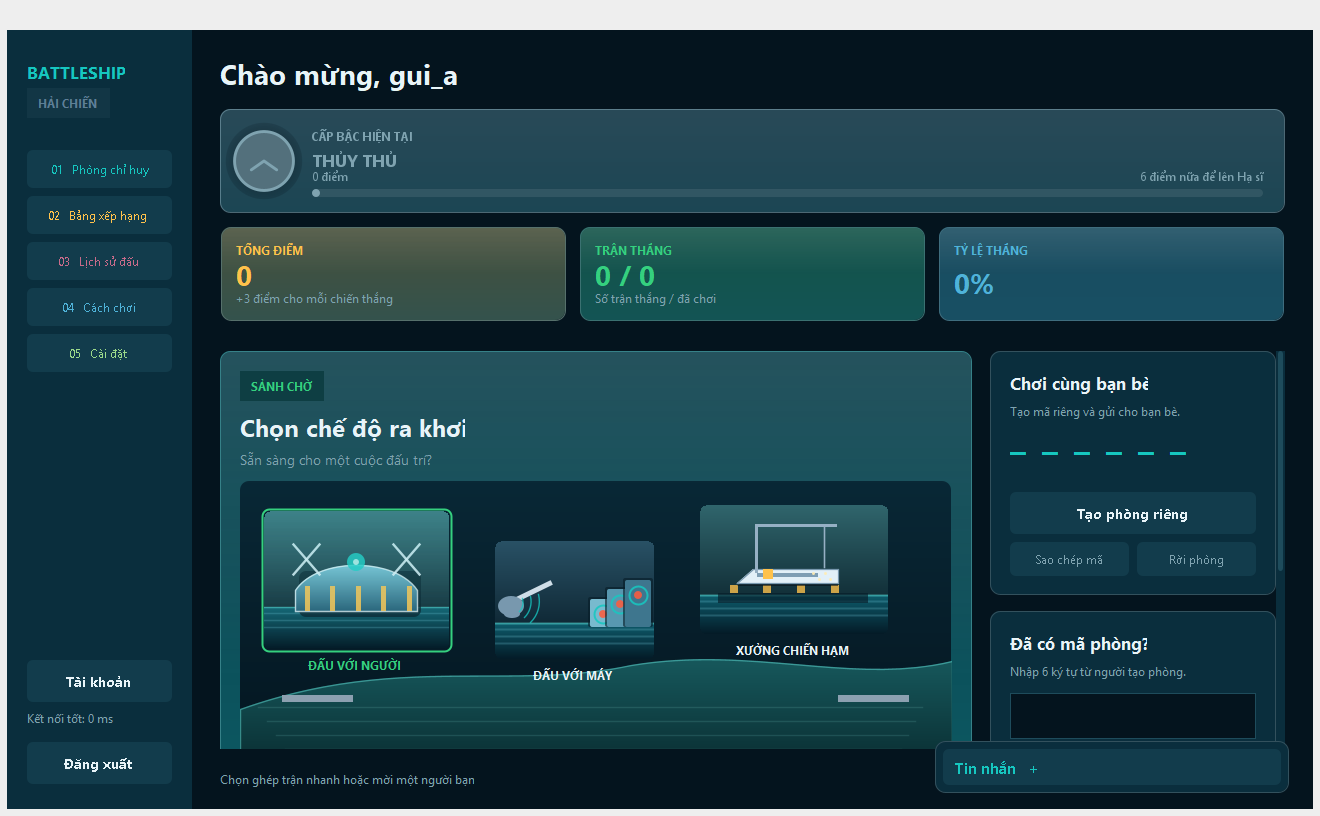
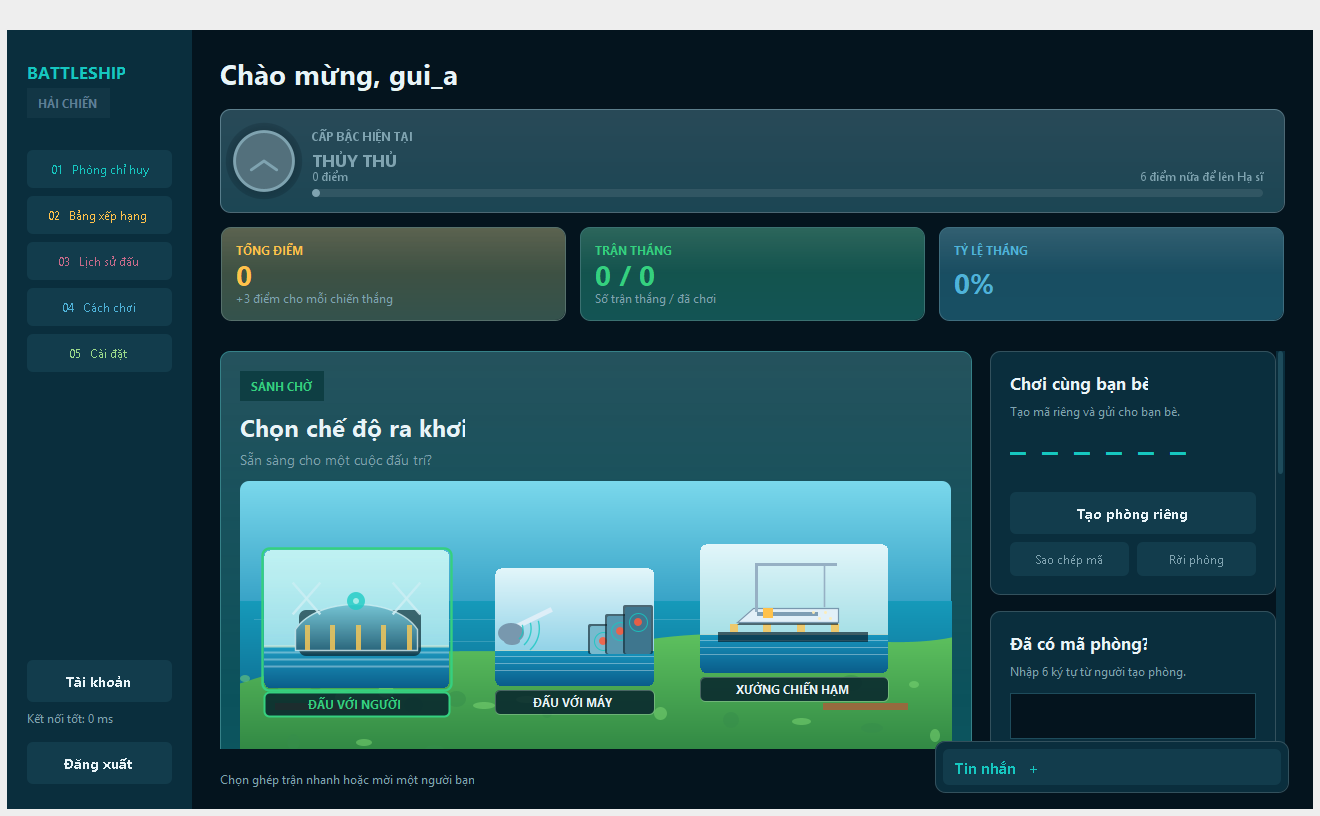
fix: the lobby no longer clips, and the hub scene goes bright and colourful
Two things in one screenshot from the field. The first was a real defect: the lobby page was pinned to
720 px while the content had grown past a thousand, and Swing clips children to the parent, so the
online roster and the whole branch panel were cut off at the bottom of a 1080-tall window. The page is
now taller than the content, the hub scene and the branch host declare minimum heights so the vertical
box layout cannot squash them, and the branch gets the room the shipyard actually needs.

The second was taste: the hub was a muted teal coast inside a dark frame, which read serious but flat.
It is now a bright little island - blue sky, blue water with white glints, a sandy rim, a green land
with foliage, wooden piers - and each building sits on it with its own light scene: a cream sandstone
dome with banners, red-and-white targets on the range, a white hull under a yellow crane in the dock.
Name plates became dark pills with a coloured frame that lights up for the open branch.

Verified: -Gui PASS (5/5), docs/ui/lobby.png re-rendered.

Changed region(s): [[0.1553, 0.5821, 0.7455, 0.9191], [0.9629, 0.5821, 0.9939, 0.674]]

diff --git a/src/client/ui/HubScene.java b/src/client/ui/HubScene.java
@@ -69,6 +69,10 @@ public class HubScene extends JPanel {
 
     public void setEntry(Entry value) { entry = value; }
 
+    @Override public Dimension getPreferredSize() { return new Dimension(320, 300); }
+    @Override public Dimension getMinimumSize() { return new Dimension(200, 300); }
+    @Override public Dimension getMaximumSize() { return new Dimension(Integer.MAX_VALUE, 300); }
+
     public void setSelected(int mode) {
         selected = mode;
         for (int i = 0; i < plates.length; i++) {
@@ -102,37 +106,58 @@ public class HubScene extends JPanel {
         }
         Graphics2D g = Theme.graphics(graphics);
         place(w, h);
-        g.setPaint(new GradientPaint(0, 0, new Color(9, 40, 54), 0, h, new Color(4, 20, 30)));
+        g.setPaint(new GradientPaint(0, 0, new Color(122, 216, 236), 0, (float) (h * 0.5), new Color(40, 150, 190)));
         g.fillRoundRect(0, 0, w - 1, h - 1, 18, 18);
-        int coast = (int) (h * 0.66);
-        Path2D land = new Path2D.Double();
-        land.moveTo(0, coast + 30);
-        land.curveTo(w * 0.22, coast - 26, w * 0.38, coast + 12, w * 0.55, coast - 14);
-        land.curveTo(w * 0.72, coast - 34, w * 0.86, coast + 6, w, coast - 18);
-        land.lineTo(w, h);
-        land.lineTo(0, h);
-        land.closePath();
-        g.setPaint(new GradientPaint(0, coast - 30, new Color(24, 92, 96), 0, h, new Color(8, 40, 44)));
-        g.fill(land);
-        g.setColor(new Color(99, 230, 222, 120));
-        g.setStroke(new BasicStroke(1.4f));
-        g.draw(land);
-        for (int i = 0; i < 5; i++) {
-            int y = coast + 28 + i * 14;
-            g.setColor(new Color(140, 232, 226, 34));
-            g.drawLine(18 + i * 9, y, w - 30 - i * 7, y);
+        g.setPaint(new GradientPaint(0, (float) (h * 0.40), new Color(22, 154, 186), 0, h, new Color(8, 78, 118)));
+        g.fillRect(0, (int) (h * 0.40), w, h - (int) (h * 0.40));
+        g.setColor(new Color(255, 255, 255, 40));
+        for (int i = 0; i < 7; i++) {
+            int y = (int) (h * (0.46 + i * 0.075));
+            g.drawLine((int) (w * 0.02 + (i % 3) * 26), y, (int) (w * 0.72 - (i % 4) * 30), y);
         }
-        int pierY = coast + 16;
-        g.setColor(new Color(140, 160, 176));
-        g.fillRect((int) (w * 0.06), pierY, (int) (w * 0.10), 7);
-        g.fillRect((int) (w * 0.84), pierY, (int) (w * 0.10), 7);
+        int coast = (int) (h * 0.60);
+        Path2D sand = new Path2D.Double();
+        sand.moveTo(-10, coast + 44);
+        sand.curveTo(w * 0.20, coast - 20, w * 0.36, coast + 18, w * 0.54, coast - 8);
+        sand.curveTo(w * 0.72, coast - 30, w * 0.88, coast + 10, w + 10, coast - 14);
+        sand.lineTo(w + 10, h + 10);
+        sand.lineTo(-10, h + 10);
+        sand.closePath();
+        g.setPaint(new GradientPaint(0, coast - 20, new Color(238, 214, 156), 0, h, new Color(196, 166, 108)));
+        g.fill(sand);
+        g.setColor(new Color(255, 246, 214, 150));
+        g.setStroke(new BasicStroke(2f));
+        g.draw(sand);
+        Path2D island = new Path2D.Double();
+        island.moveTo(-10, coast + 26);
+        island.curveTo(w * 0.22, coast - 34, w * 0.38, coast + 6, w * 0.56, coast - 20);
+        island.curveTo(w * 0.74, coast - 42, w * 0.90, coast - 4, w + 10, coast - 26);
+        island.lineTo(w + 10, h + 10);
+        island.lineTo(-10, h + 10);
+        island.closePath();
+        g.setPaint(new GradientPaint(0, coast - 34, new Color(96, 196, 96), 0, h, new Color(38, 122, 62)));
+        g.fill(island);
+        for (int i = 0; i < 26; i++) {
+            double bx = (i * 97 % 1000) / 1000.0 * w, by = coast + 14 + (i * 53 % 1000) / 1000.0 * (h - coast - 18);
+            g.setColor(i % 2 == 0 ? new Color(126, 216, 116, 130) : new Color(54, 140, 74, 120));
+            g.fillOval((int) bx, (int) by, 10 + i % 5 * 3, 7 + i % 4 * 3);
+        }
+        g.setColor(new Color(150, 106, 62));
+        g.fillRect((int) (w * 0.05), (int) (h * 0.74), (int) (w * 0.12), 7);
+        g.fillRect((int) (w * 0.82), (int) (h * 0.74), (int) (w * 0.12), 7);
         for (int i = 0; i < 3; i++) {
             boolean active = selected == i, over = hovered == i;
             double glow = active ? 1 : over ? .55 : 0;
+            int plateY = placedY[i] + placedH[i] + 4, plateW = Math.max(90, placedW[i]), plateH = 24;
+            g.setColor(new Color(6, 34, 44, 216));
+            g.fillRoundRect(placedX[i], plateY, plateW, plateH, 10, 10);
+            g.setColor(active ? accents[i] : new Color(255, 255, 255, 60));
+            g.setStroke(new BasicStroke(active ? 2f : 1f));
+            g.drawRoundRect(placedX[i], plateY, plateW, plateH, 10, 10);
             HubArt.paint(g, i, placedX[i], placedY[i] - (over ? 4 : 0), placedW[i], placedH[i], glow);
             if (active) {
                 g.setColor(accents[i]);
-                g.setStroke(new BasicStroke(2f));
+                g.setStroke(new BasicStroke(2.4f));
                 g.draw(new RoundRectangle2D.Double(placedX[i] - 2, placedY[i] - 2, placedW[i] + 4, placedH[i] + 4, 14, 14));
             }
         }
@@ -149,8 +174,8 @@ public class HubScene extends JPanel {
         placedX[0] = 24;
         placedX[1] = placedX[0] + placedW[0] + gap;
         placedX[2] = placedX[1] + placedW[1] + gap;
-        placedY[0] = (int) (h * 0.10);
-        placedY[1] = (int) (h * 0.20);
-        placedY[2] = (int) (h * 0.08);
+        placedY[0] = (int) (h * 0.23);
+        placedY[1] = (int) (h * 0.29);
+        placedY[2] = (int) (h * 0.21);
     }
 }

diff --git a/src/client/ui/HubArt.java b/src/client/ui/HubArt.java
@@ -14,17 +14,17 @@ public final class HubArt {
         Graphics2D g2 = (Graphics2D) g.create(x, y, w, h);
         g2.setRenderingHint(RenderingHints.KEY_ANTIALIASING, RenderingHints.VALUE_ANTIALIAS_ON);
         g2.clip(new RoundRectangle2D.Double(0, 0, w, h, 12, 12));
-        Color sky = kind == 0 ? new Color(24, 74, 88) : kind == 1 ? new Color(18, 62, 84) : new Color(26, 84, 92);
-        g2.setPaint(new GradientPaint(0, 0, Theme.blend(sky, Color.WHITE, .10f), 0, h, new Color(5, 24, 34)));
+        Color sky = kind == 0 ? new Color(126, 208, 226) : kind == 1 ? new Color(112, 196, 224) : new Color(140, 214, 222);
+        g2.setPaint(new GradientPaint(0, 0, new Color(226, 246, 250), 0, h, sky));
         g2.fillRect(0, 0, w, h);
         int water = (int) (h * 0.70);
-        g2.setPaint(new GradientPaint(0, water, new Color(14, 92, 108), 0, h, new Color(4, 26, 38)));
+        g2.setPaint(new GradientPaint(0, water, new Color(24, 150, 190), 0, h, new Color(10, 92, 138)));
         g2.fillRect(0, water, w, h - water);
-        g2.setColor(new Color(120, 210, 226, 60));
+        g2.setColor(new Color(255, 255, 255, 90));
         for (int i = 0; i < 3; i++) {
             g2.drawLine(0, water + 6 + i * 7, w, water + 6 + i * 7);
         }
-        g2.setColor(new Color(99, 230, 222, 120));
+        g2.setColor(new Color(255, 246, 214, 170));
         g2.drawLine(0, water, w, water);
         switch (kind) {
             case 0: paintArena(g2, w, h, water); break;

diff --git a/src/client/ui/LobbyFrame.java b/src/client/ui/LobbyFrame.java
@@ -105,7 +105,7 @@ public class LobbyFrame extends JFrame {
         tblOnlineUsers = new JTable(tableModel);
 
         JPanel body = Theme.transparent(new BorderLayout(18, 0));
-        main.add(Theme.scrollPage(body, 720, Theme.BG_DARK), BorderLayout.CENTER);
+        main.add(Theme.scrollPage(body, 1280, Theme.BG_DARK), BorderLayout.CENTER);
         JPanel left = Theme.transparent(new BorderLayout(0, 18));
         body.add(left, BorderLayout.CENTER);
         left.add(matchmakingCard(), BorderLayout.NORTH);
@@ -256,12 +256,12 @@ public class LobbyFrame extends JFrame {
 
         hubScene.setEntry(this::setMode);
         hubScene.setPreferredSize(new Dimension(0, 300));
-        hubScene.setMaximumSize(new Dimension(Integer.MAX_VALUE, 300));
         modeHost.add(humanBranch(), "human");
         modeHost.add(machineBranch(), "machine");
         modeHost.add(shipyardBranch(), "shipyard");
-        modeHost.setPreferredSize(new Dimension(0, 208));
-        modeHost.setMaximumSize(new Dimension(Integer.MAX_VALUE, 208));
+        modeHost.setPreferredSize(new Dimension(0, 252));
+        modeHost.setMinimumSize(new Dimension(0, 252));
+        modeHost.setMaximumSize(new Dimension(Integer.MAX_VALUE, 252));
         JPanel middle = Theme.stack();
         Theme.addStack(middle, hubScene, 10);
         Theme.addStack(middle, modeHost, 0);
